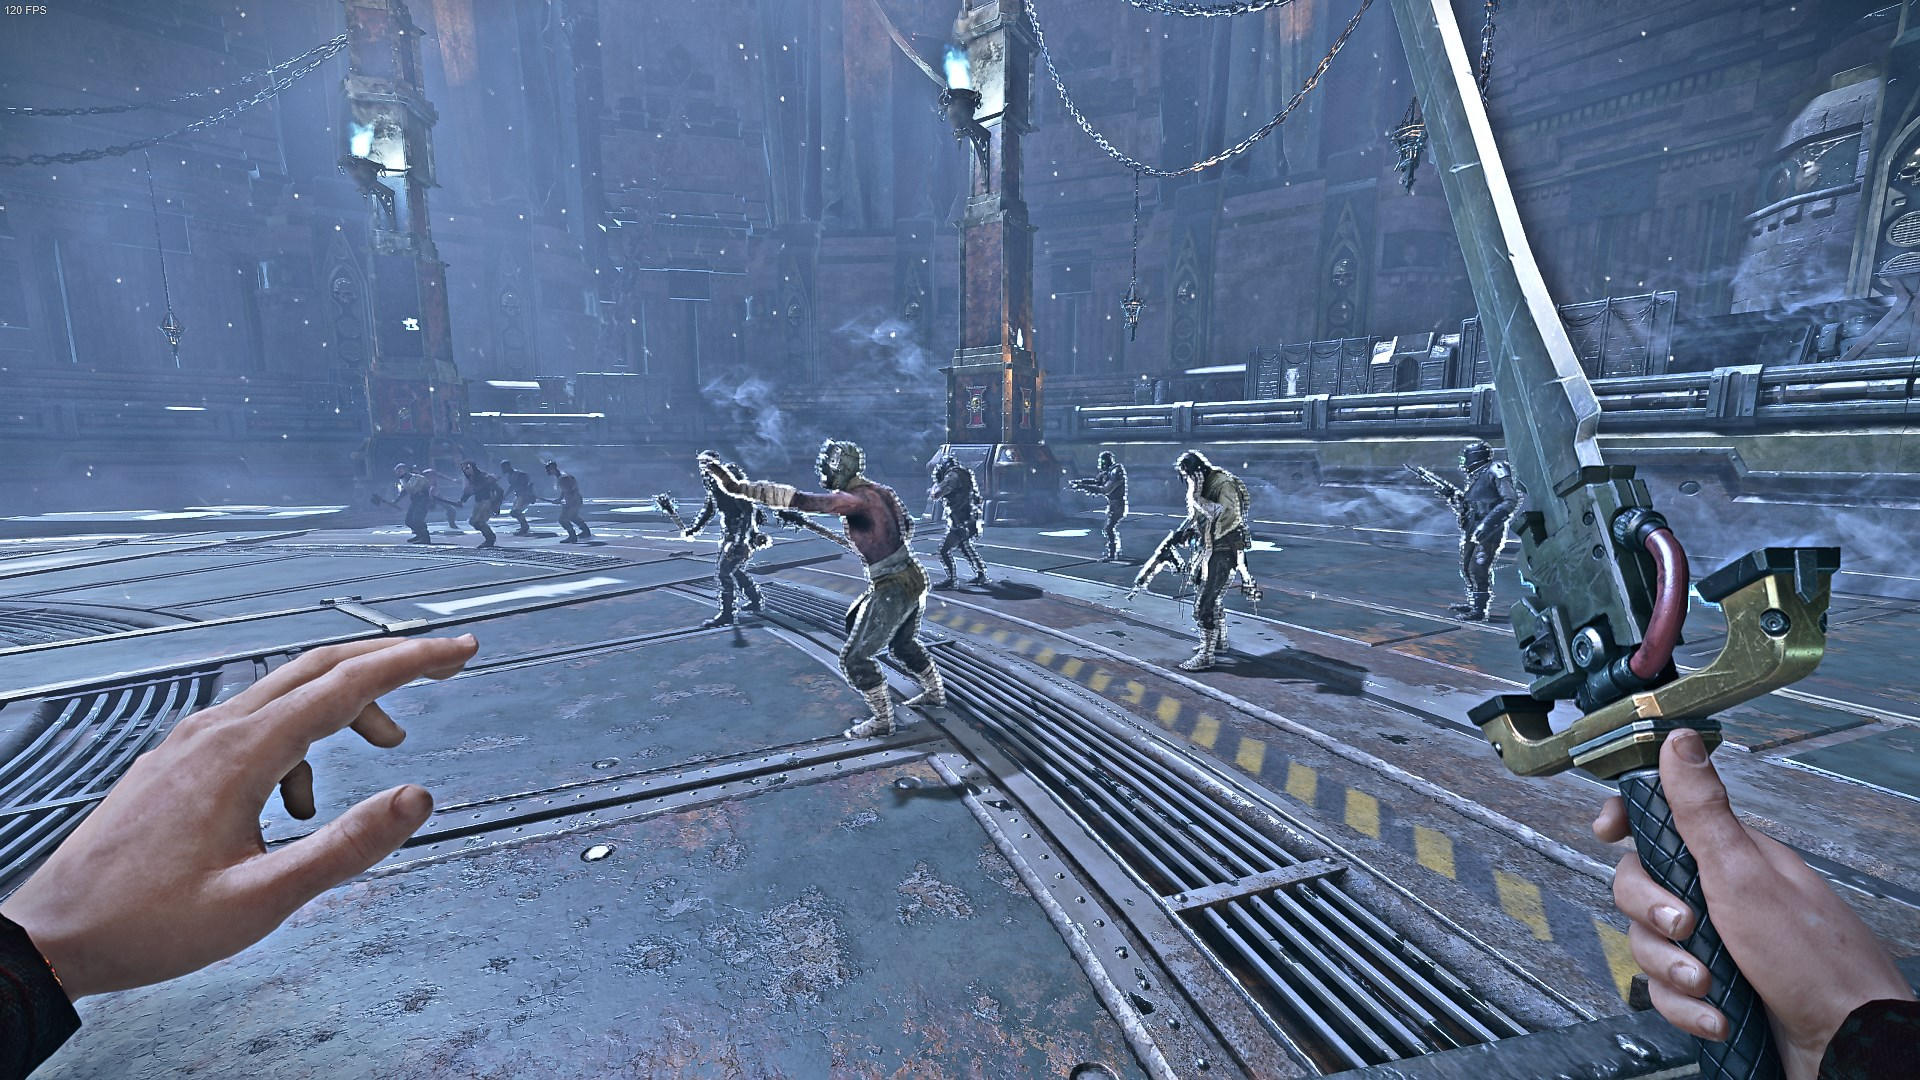
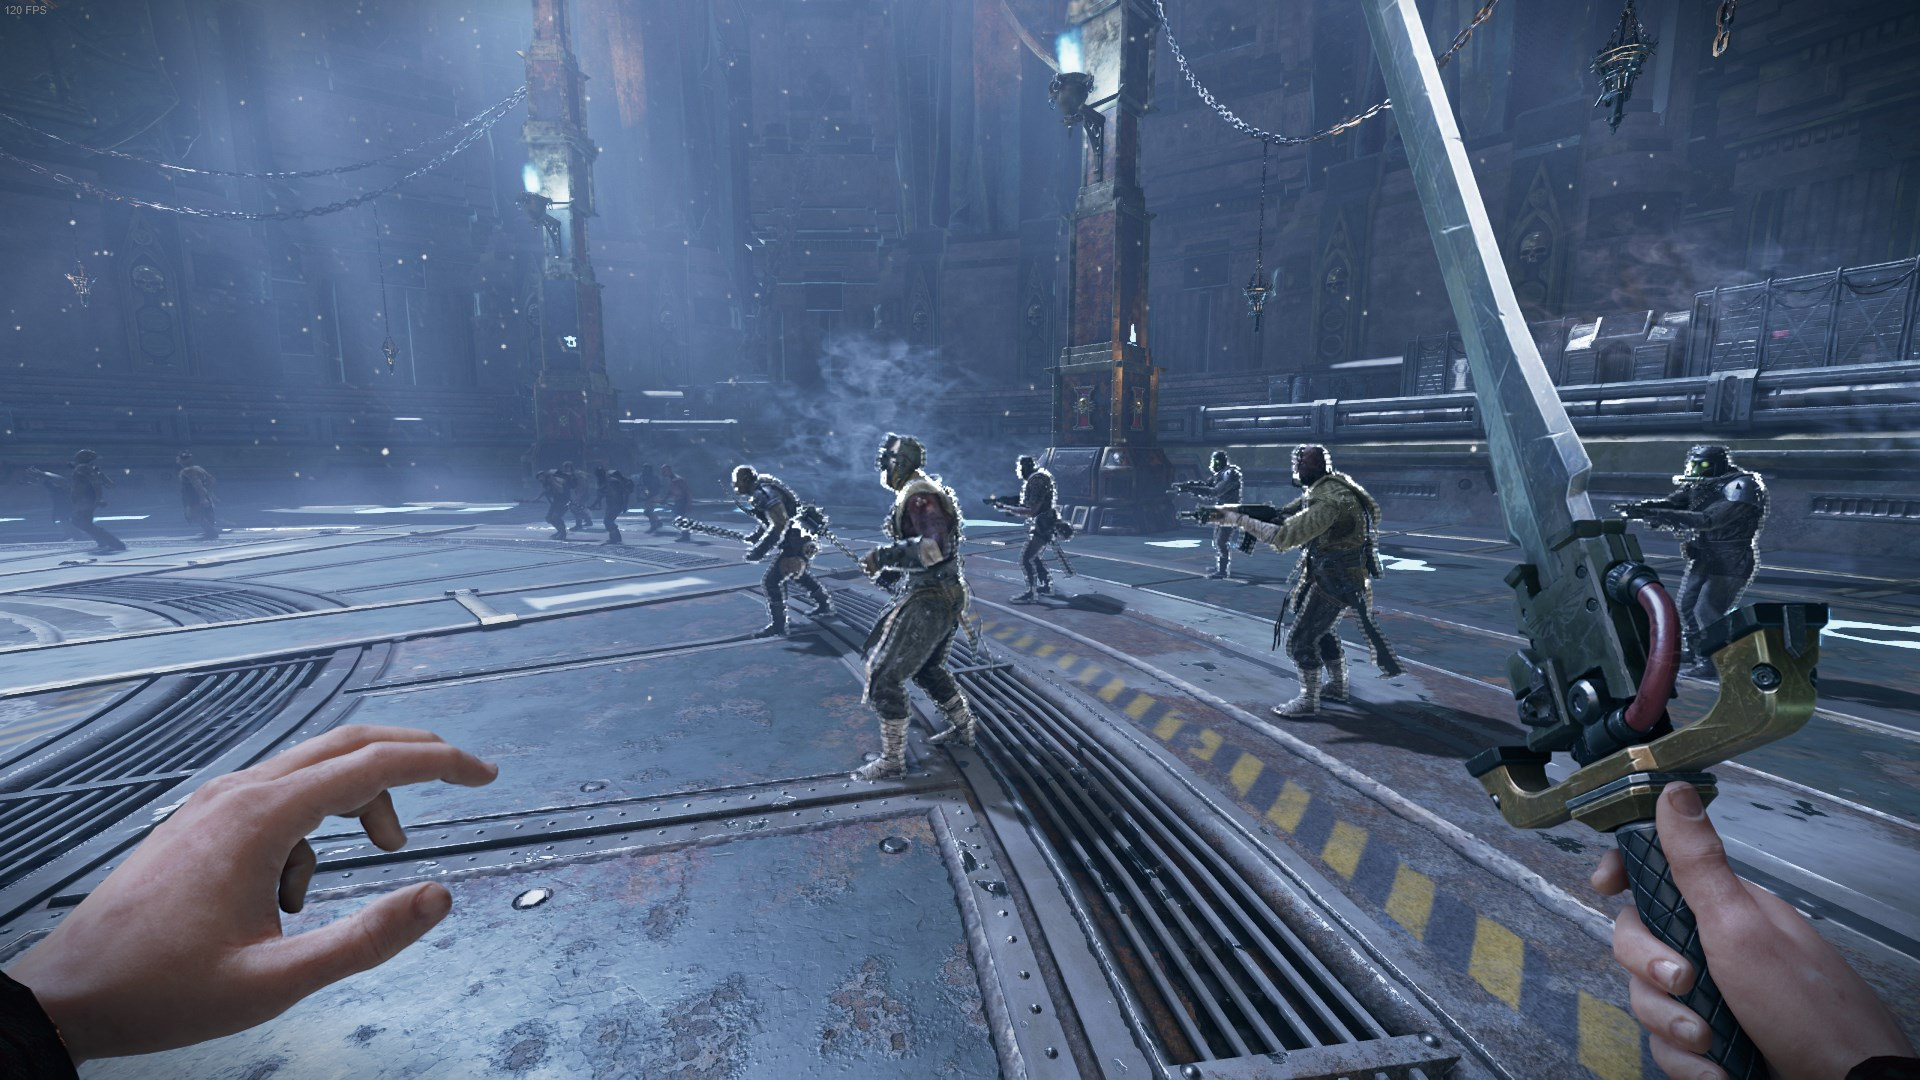
docs: Add Monstrosity screenshot docs: Update screenshots with screenshots without NVIDIA filter

diff --git a/README.md b/README.md
@@ -16,7 +16,9 @@ Outlines [specialists](https://darktide.gameslantern.com/enemies?type=SPECIALIST
 
 ## Elite
 Outlines [elite](https://darktide.gameslantern.com/enemies?type=ELITE) enemies and [captains](https://darktide.gameslantern.com/enemies?type=CAPTAIN).
-![Elite](./info/Elite.jpg)
+![Elite](./info/Elite.jpg)  
+![Elite2](./info/Elite2.jpg)
 
 ## Monstrosity
-Outlines [Monstrosities](https://darktide.gameslantern.com/enemies?type=MONSTROSITY).
+Outlines [Monstrosities](https://darktide.gameslantern.com/enemies?type=MONSTROSITY).  
+![Monstrosity](./info/Monstrosity.jpg)  
